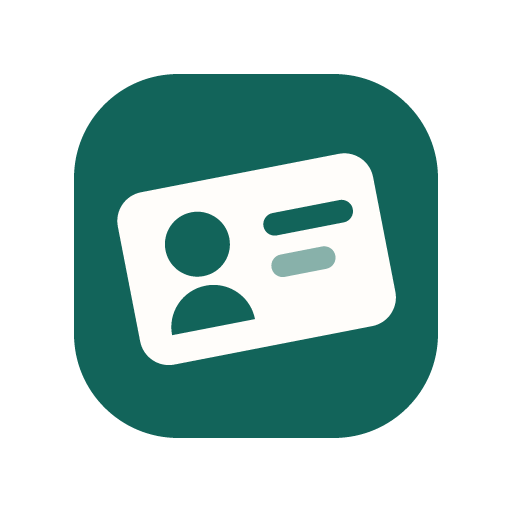
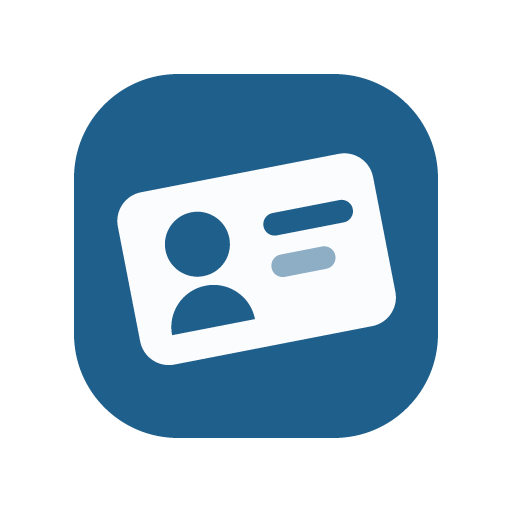
Apply the Slate Blueprint palette (#28)
* Apply the Slate Blueprint palette

Recolours the Workbench system from warm paper/teal to a cool drafting-paper
ground on a steel-blue accent, per the Slate Blueprint design (2a light, 2b
dark). Only surfaces, washes/strokes, ink, accent, scrim, shadows and the
policy-effect inset change; type, shape, metrics, motion, the six coloured
status families and the compliance bands are untouched.

`--badgy-status-oof`, `-oof-soft` and `-none` are the ink axis rather than a
hue, so they move with the ground. Dark now sets `--badgy-on-annotation`
explicitly — it previously inherited light's near-white over a bright accent
chip.

Also updates the hardcoded grounds outside the token file (the two index.html
theme-colors, the theme.ts fallback, the manifest) and the favicon mark, with
the PNGs regenerated by scripts/gen-icons.mjs.

* Fix thumbnail selectors after the Workbench redesign

The redesign renamed the month cell to `.month-day` and the account label to
`.rail-account-name`, so tools/thumbs.mjs timed out waiting for `.day`.

* Potential fix for pull request finding

diff --git a/packages/web/src/styles/tokens.css b/packages/web/src/styles/tokens.css
@@ -1,8 +1,9 @@
-/* Badgy design tokens — the "Workbench" visual system.
-   Light is warm paper: a #f6f4f0 ground, a #fffdfa surface, warm near-black ink, one teal accent
-   and seven muted status inks. Dark is the matching warm charcoal: brown-black ground, lifted
-   charcoal surfaces, warm off-white ink and a brighter teal. Both sets are semantic — components
-   style themselves from these names and never hardcode a colour.
+/* Badgy design tokens — the "Workbench" visual system, in the Slate Blueprint palette.
+   Light is drafting paper: a cool #e9edf2 ground, a #fbfcfe surface, blue-black ink, one steel-blue
+   accent and seven muted status inks. Dark is the matching cool charcoal: slate-black ground,
+   lifted slate surfaces, off-white-blue ink and a brighter steel blue. Every hairline and wash is
+   keyed to the same 20 30 44 / 214 228 245 axis as the ground, so tints sit flat on it. Both sets
+   are semantic — components style themselves from these names and never hardcode a colour.
    Separation is done with hairlines and the ground/surface value step: the only structural shadow
    is `--badgy-shadow-sheet` on the inset rail and sign-in sheet (popups float outside them). */
 
@@ -62,41 +63,41 @@
   --badgy-dur: 120ms;
 
   /* surfaces */
-  --badgy-surface-page: #f6f4f0;
-  --badgy-surface-card: #fffdfa;
-  --badgy-surface-ctrl: #fffdfa;
-  --badgy-surface-ctrl-hover: #f2efe9;
-  --badgy-surface-scrim: rgb(28 26 23 / 42%);
-  --badgy-wash: rgb(28 26 23 / 3%);
-  --badgy-wash-2: rgb(28 26 23 / 6%);
-  --badgy-wash-active: rgb(28 26 23 / 7%);
-  --badgy-wash-3: rgb(28 26 23 / 8%);
-  --badgy-stroke: rgb(28 26 23 / 10%);
-  --badgy-stroke-strong: rgb(28 26 23 / 12%);
-  --badgy-stroke-control: rgb(28 26 23 / 16%);
+  --badgy-surface-page: #e9edf2;
+  --badgy-surface-card: #fbfcfe;
+  --badgy-surface-ctrl: #fbfcfe;
+  --badgy-surface-ctrl-hover: #eef1f6;
+  --badgy-surface-scrim: rgb(20 30 44 / 46%);
+  --badgy-wash: rgb(20 30 44 / 3%);
+  --badgy-wash-2: rgb(20 30 44 / 6%);
+  --badgy-wash-active: rgb(20 30 44 / 7%);
+  --badgy-wash-3: rgb(20 30 44 / 8%);
+  --badgy-stroke: rgb(20 30 44 / 10%);
+  --badgy-stroke-strong: rgb(20 30 44 / 12%);
+  --badgy-stroke-control: rgb(20 30 44 / 16%);
 
   /* ink */
-  --badgy-text-primary: #1c1a17;
-  --badgy-text-secondary: #6f6a61;
-  --badgy-text-faint: #a09a90;
-  --badgy-fill-ink: #1c1a17;
-  --badgy-on-fill-ink: #fdfcfa;
-  --badgy-text-on-accent: #fdfcfa;
+  --badgy-text-primary: #141a22;
+  --badgy-text-secondary: #5f6a78;
+  --badgy-text-faint: #98a2b0;
+  --badgy-fill-ink: #16202b;
+  --badgy-on-fill-ink: #f8fafc;
+  --badgy-text-on-accent: #f4f9fc;
 
   /* accent — today, focus, links, avatar, the forecast line */
-  --badgy-accent: #12645a;
-  --badgy-accent-hover: #0e5049;
-  --badgy-accent-ink: #0e5049;
-  --badgy-accent-soft: rgb(18 100 90 / 8%);
-  --badgy-meetup: #12645a;
-  --badgy-on-meetup: #fffdfa;
-  --badgy-on-annotation: #fffdfa;
+  --badgy-accent: #1f5f8b;
+  --badgy-accent-hover: #185175;
+  --badgy-accent-ink: #185175;
+  --badgy-accent-soft: rgb(31 95 139 / 9%);
+  --badgy-meetup: #1f5f8b;
+  --badgy-on-meetup: #fbfcfe;
+  --badgy-on-annotation: #fbfcfe;
 
   /* elevation — reserved for the inset rail, sign-in sheet and transient popups */
-  --badgy-shadow-sheet: 0 18px 50px rgb(28 26 23 / 14%);
-  --badgy-shadow-popup: 0 12px 32px rgb(28 26 23 / 18%);
+  --badgy-shadow-sheet: 0 18px 50px rgb(20 30 44 / 13%);
+  --badgy-shadow-popup: 0 12px 32px rgb(20 30 44 / 18%);
 
-  /* status families: a solid line colour plus a 12% tint of it */
+  /* status families: a solid line colour plus a soft tint (typically 12%) */
   --badgy-status-office: #1f6b4a;
   --badgy-status-office-soft: rgb(31 107 74 / 12%);
   --badgy-status-remote: #a5652a;
@@ -109,9 +110,10 @@
   --badgy-status-vacation-soft: rgb(122 63 143 / 12%);
   --badgy-status-sick: #a53a2c;
   --badgy-status-sick-soft: rgb(165 58 44 / 12%);
-  --badgy-status-oof: #6f6a61;
-  --badgy-status-oof-soft: rgb(111 106 97 / 10%);
-  --badgy-status-none: rgb(28 26 23 / 14%);
+  /* "oof" and "none" are the ink axis rather than a hue, so they move with the ground */
+  --badgy-status-oof: #5f6a78;
+  --badgy-status-oof-soft: rgb(20 30 44 / 10%);
+  --badgy-status-none: rgb(20 30 44 / 14%);
 
   /* compliance bands — thresholds are unchanged: <80% danger, 80–90% warning, >=90% success */
   --badgy-band-success: #1f6b4a;
@@ -123,11 +125,11 @@
   --badgy-band-danger-soft: rgb(165 58 44 / 12%);
 
   /* the policy effect panel is a dark inset in both themes */
-  --badgy-effect-bg: #1c1a17;
-  --badgy-effect-ink: #fdfcfa;
-  --badgy-effect-muted: rgb(253 252 250 / 64%);
-  --badgy-effect-line: rgb(253 252 250 / 30%);
-  --badgy-effect-hover: rgb(253 252 250 / 12%);
+  --badgy-effect-bg: #16202b;
+  --badgy-effect-ink: #f4f7fb;
+  --badgy-effect-muted: rgb(244 247 251 / 64%);
+  --badgy-effect-line: rgb(244 247 251 / 30%);
+  --badgy-effect-hover: rgb(244 247 251 / 12%);
   --badgy-effect-positive: #7fd6a8;
   --badgy-effect-caution: #e8c46a;
   --badgy-effect-negative: #f0917f;
@@ -136,32 +138,33 @@
 [data-theme="dark"] {
   color-scheme: dark;
 
-  --badgy-surface-page: #15120f;
-  --badgy-surface-card: #211d18;
-  --badgy-surface-ctrl: #211d18;
-  --badgy-surface-ctrl-hover: #2c2720;
-  --badgy-surface-scrim: rgb(8 6 4 / 62%);
-  --badgy-wash: rgb(255 251 244 / 4%);
-  --badgy-wash-2: rgb(255 251 244 / 7%);
-  --badgy-wash-active: rgb(255 251 244 / 9%);
-  --badgy-wash-3: rgb(255 251 244 / 10%);
-  --badgy-stroke: rgb(255 251 244 / 12%);
-  --badgy-stroke-strong: rgb(255 251 244 / 16%);
-  --badgy-stroke-control: rgb(255 251 244 / 20%);
+  --badgy-surface-page: #101419;
+  --badgy-surface-card: #1a2028;
+  --badgy-surface-ctrl: #1a2028;
+  --badgy-surface-ctrl-hover: #242c36;
+  --badgy-surface-scrim: rgb(4 7 11 / 64%);
+  --badgy-wash: rgb(214 228 245 / 4%);
+  --badgy-wash-2: rgb(214 228 245 / 7%);
+  --badgy-wash-active: rgb(214 228 245 / 9%);
+  --badgy-wash-3: rgb(214 228 245 / 10%);
+  --badgy-stroke: rgb(214 228 245 / 12%);
+  --badgy-stroke-strong: rgb(214 228 245 / 16%);
+  --badgy-stroke-control: rgb(214 228 245 / 20%);
 
-  --badgy-text-primary: #f5efe6;
-  --badgy-text-secondary: #b3aa9d;
-  --badgy-text-faint: #948b7c;
-  --badgy-fill-ink: #f2ece3;
-  --badgy-on-fill-ink: #191510;
-  --badgy-text-on-accent: #08201d;
+  --badgy-text-primary: #e7edf4;
+  --badgy-text-secondary: #9ba7b6;
+  --badgy-text-faint: #7d8896;
+  --badgy-fill-ink: #e2e9f2;
+  --badgy-on-fill-ink: #12171e;
+  --badgy-text-on-accent: #07202e;
 
-  --badgy-accent: #43bda8;
-  --badgy-accent-hover: #5ed0bb;
-  --badgy-accent-ink: #8fd9c9;
-  --badgy-accent-soft: rgb(67 189 168 / 14%);
-  --badgy-meetup: #43bda8;
-  --badgy-on-meetup: #08201d;
+  --badgy-accent: #4d9ecb;
+  --badgy-accent-hover: #6bb3da;
+  --badgy-accent-ink: #93c8e4;
+  --badgy-accent-soft: rgb(77 158 203 / 14%);
+  --badgy-meetup: #4d9ecb;
+  --badgy-on-meetup: #07202e;
+  --badgy-on-annotation: #07202e;
 
   --badgy-shadow-sheet: 0 18px 50px rgb(0 0 0 / 55%);
   --badgy-shadow-popup: 0 12px 32px rgb(0 0 0 / 55%);
@@ -178,9 +181,9 @@
   --badgy-status-vacation-soft: rgb(196 138 217 / 16%);
   --badgy-status-sick: #e5806f;
   --badgy-status-sick-soft: rgb(229 128 111 / 16%);
-  --badgy-status-oof: #a89e91;
-  --badgy-status-oof-soft: rgb(168 158 145 / 14%);
-  --badgy-status-none: rgb(255 251 244 / 16%);
+  --badgy-status-oof: #98a3b2;
+  --badgy-status-oof-soft: rgb(214 228 245 / 14%);
+  --badgy-status-none: rgb(214 228 245 / 16%);
 
   --badgy-band-success: #56bd8b;
   --badgy-band-success-soft: rgb(86 189 139 / 16%);
@@ -190,10 +193,10 @@
   --badgy-band-danger: #e5806f;
   --badgy-band-danger-soft: rgb(229 128 111 / 16%);
 
-  --badgy-effect-bg: #2a241d;
-  --badgy-effect-ink: #f7f1e8;
-  --badgy-effect-muted: rgb(247 241 232 / 66%);
-  --badgy-effect-line: rgb(247 241 232 / 28%);
-  --badgy-effect-hover: rgb(247 241 232 / 12%);
+  --badgy-effect-bg: #212934;
+  --badgy-effect-ink: #eff4fa;
+  --badgy-effect-muted: rgb(239 244 250 / 66%);
+  --badgy-effect-line: rgb(239 244 250 / 28%);
+  --badgy-effect-hover: rgb(239 244 250 / 12%);
   --badgy-effect-positive: #7fd6a8;
 }

diff --git a/packages/web/index.html b/packages/web/index.html
@@ -13,7 +13,7 @@
     <title>Badgy</title>
     <meta name="description" content="Plan office attendance against your workplace policy." />
     <meta name="robots" content="noindex, nofollow, noarchive, nosnippet, noimageindex" />
-    <meta name="theme-color" content="#f6f4f0" />
+    <meta name="theme-color" content="#e9edf2" />
     <script>
       // Apply the persisted/system theme before CSS loads so dark-mode launches do not flash paper.
       try {
@@ -22,7 +22,7 @@
           mode === 'dark' ||
           (mode === 'system' && matchMedia('(prefers-color-scheme: dark)').matches);
         document.documentElement.dataset.theme = dark ? 'dark' : 'light';
-        document.querySelector('meta[name="theme-color"]').content = dark ? '#15120f' : '#f6f4f0';
+        document.querySelector('meta[name="theme-color"]').content = dark ? '#101419' : '#e9edf2';
       } catch {
         // Storage can be unavailable in hardened browsing modes; the light HTML default is safe.
       }

diff --git a/packages/web/src/lib/theme.ts b/packages/web/src/lib/theme.ts
@@ -32,7 +32,7 @@ function updateThemeColor(theme: Theme): void {
   const color = getComputedStyle(document.documentElement)
     .getPropertyValue('--badgy-surface-page')
     .trim();
-  meta.content = color || (theme === 'dark' ? '#15120f' : '#f6f4f0');
+  meta.content = color || (theme === 'dark' ? '#101419' : '#e9edf2');
 }
 
 export function applyMode(mode: ThemeMode): void {

diff --git a/.github/copilot-instructions.md b/.github/copilot-instructions.md
@@ -189,12 +189,12 @@ and its 2026/2027 output is pinned by a parity test — don't change those rules
 - Components read and write **only** through the `store` singleton; they never touch the doc, HLC,
   or transports directly.
 - Style exclusively with Badgy tokens from `packages/web/src/styles/tokens.css`
-  (`var(--badgy-…)`) in the global `app.css` — never hardcode a colour in a component. Warm-paper
-  light and warm-charcoal dark palettes, 8–14px radii (no `corner-shape`), a full-bleed pane, and
-  one structural shadow on the inset rail/sign-in sheet: interior separation is hairlines and value
-  steps. In Windows Controls Overlay mode, the rail brand occupies the titlebar and the existing
-  pane header becomes the interactive WCO command bar; preserve native-control clearance and
-  explicit drag/no-drag regions.
+  (`var(--badgy-…)`) in the global `app.css` — never hardcode a colour in a component. Slate
+  Blueprint: cool drafting-paper light and slate-charcoal dark palettes on a steel-blue accent,
+  8–14px radii (no `corner-shape`), a full-bleed pane, and one structural shadow on the inset
+  rail/sign-in sheet: interior separation is hairlines and value steps. In Windows Controls Overlay
+  mode, the rail brand occupies the titlebar and the existing pane header becomes the interactive
+  WCO command bar; preserve native-control clearance and explicit drag/no-drag regions.
   Status bars, dots and swatches use the `s-<status>` classes produced by `lib/status.ts`.
 - Settings is one continuous scrolling document: its inset rail nav scrolls to section headings and
   a scroll spy updates the active item/WCO title. Keep all sections mounted so policy drafts survive

diff --git a/CLAUDE.md b/CLAUDE.md
@@ -86,11 +86,12 @@ caps custom domains at 5 with no wildcard**, so sub-domains don't scale without 
 TypeScript, ESM, `verbatimModuleSyntax` (`import type`), `.js` on relative imports — except
 `packages/api`, which is CommonJS with extensionless imports. Lit without decorators; Biome +
 stylelint; Playwright + vitest; LF everywhere. Style **only** with Badgy tokens from
-`styles/tokens.css` (`var(--badgy-…)`) — never hardcode a colour in a component; warm-paper light
-and warm-charcoal dark palettes, 8–14px radii (no `corner-shape`), a full-bleed pane, and one
-structural shadow on the inset rail/sign-in sheet — interior separation is hairlines and value
-steps. In Windows Controls Overlay mode, the rail brand shares the titlebar and the pane header
-becomes the interactive command bar with explicit drag/no-drag regions. Band classes are
+`styles/tokens.css` (`var(--badgy-…)`) — never hardcode a colour in a component; Slate Blueprint's
+cool drafting-paper light and slate-charcoal dark palettes on a steel-blue accent, 8–14px radii
+(no `corner-shape`), a full-bleed pane, and one structural shadow on the inset rail/sign-in sheet —
+interior separation is hairlines and value steps. In Windows Controls Overlay mode, the rail brand
+shares the titlebar and the pane header becomes the interactive command bar with explicit
+drag/no-drag regions. Band classes are
 `.score-danger` / `.score-warning` / `.score-success`.
 
 ## Holidays
